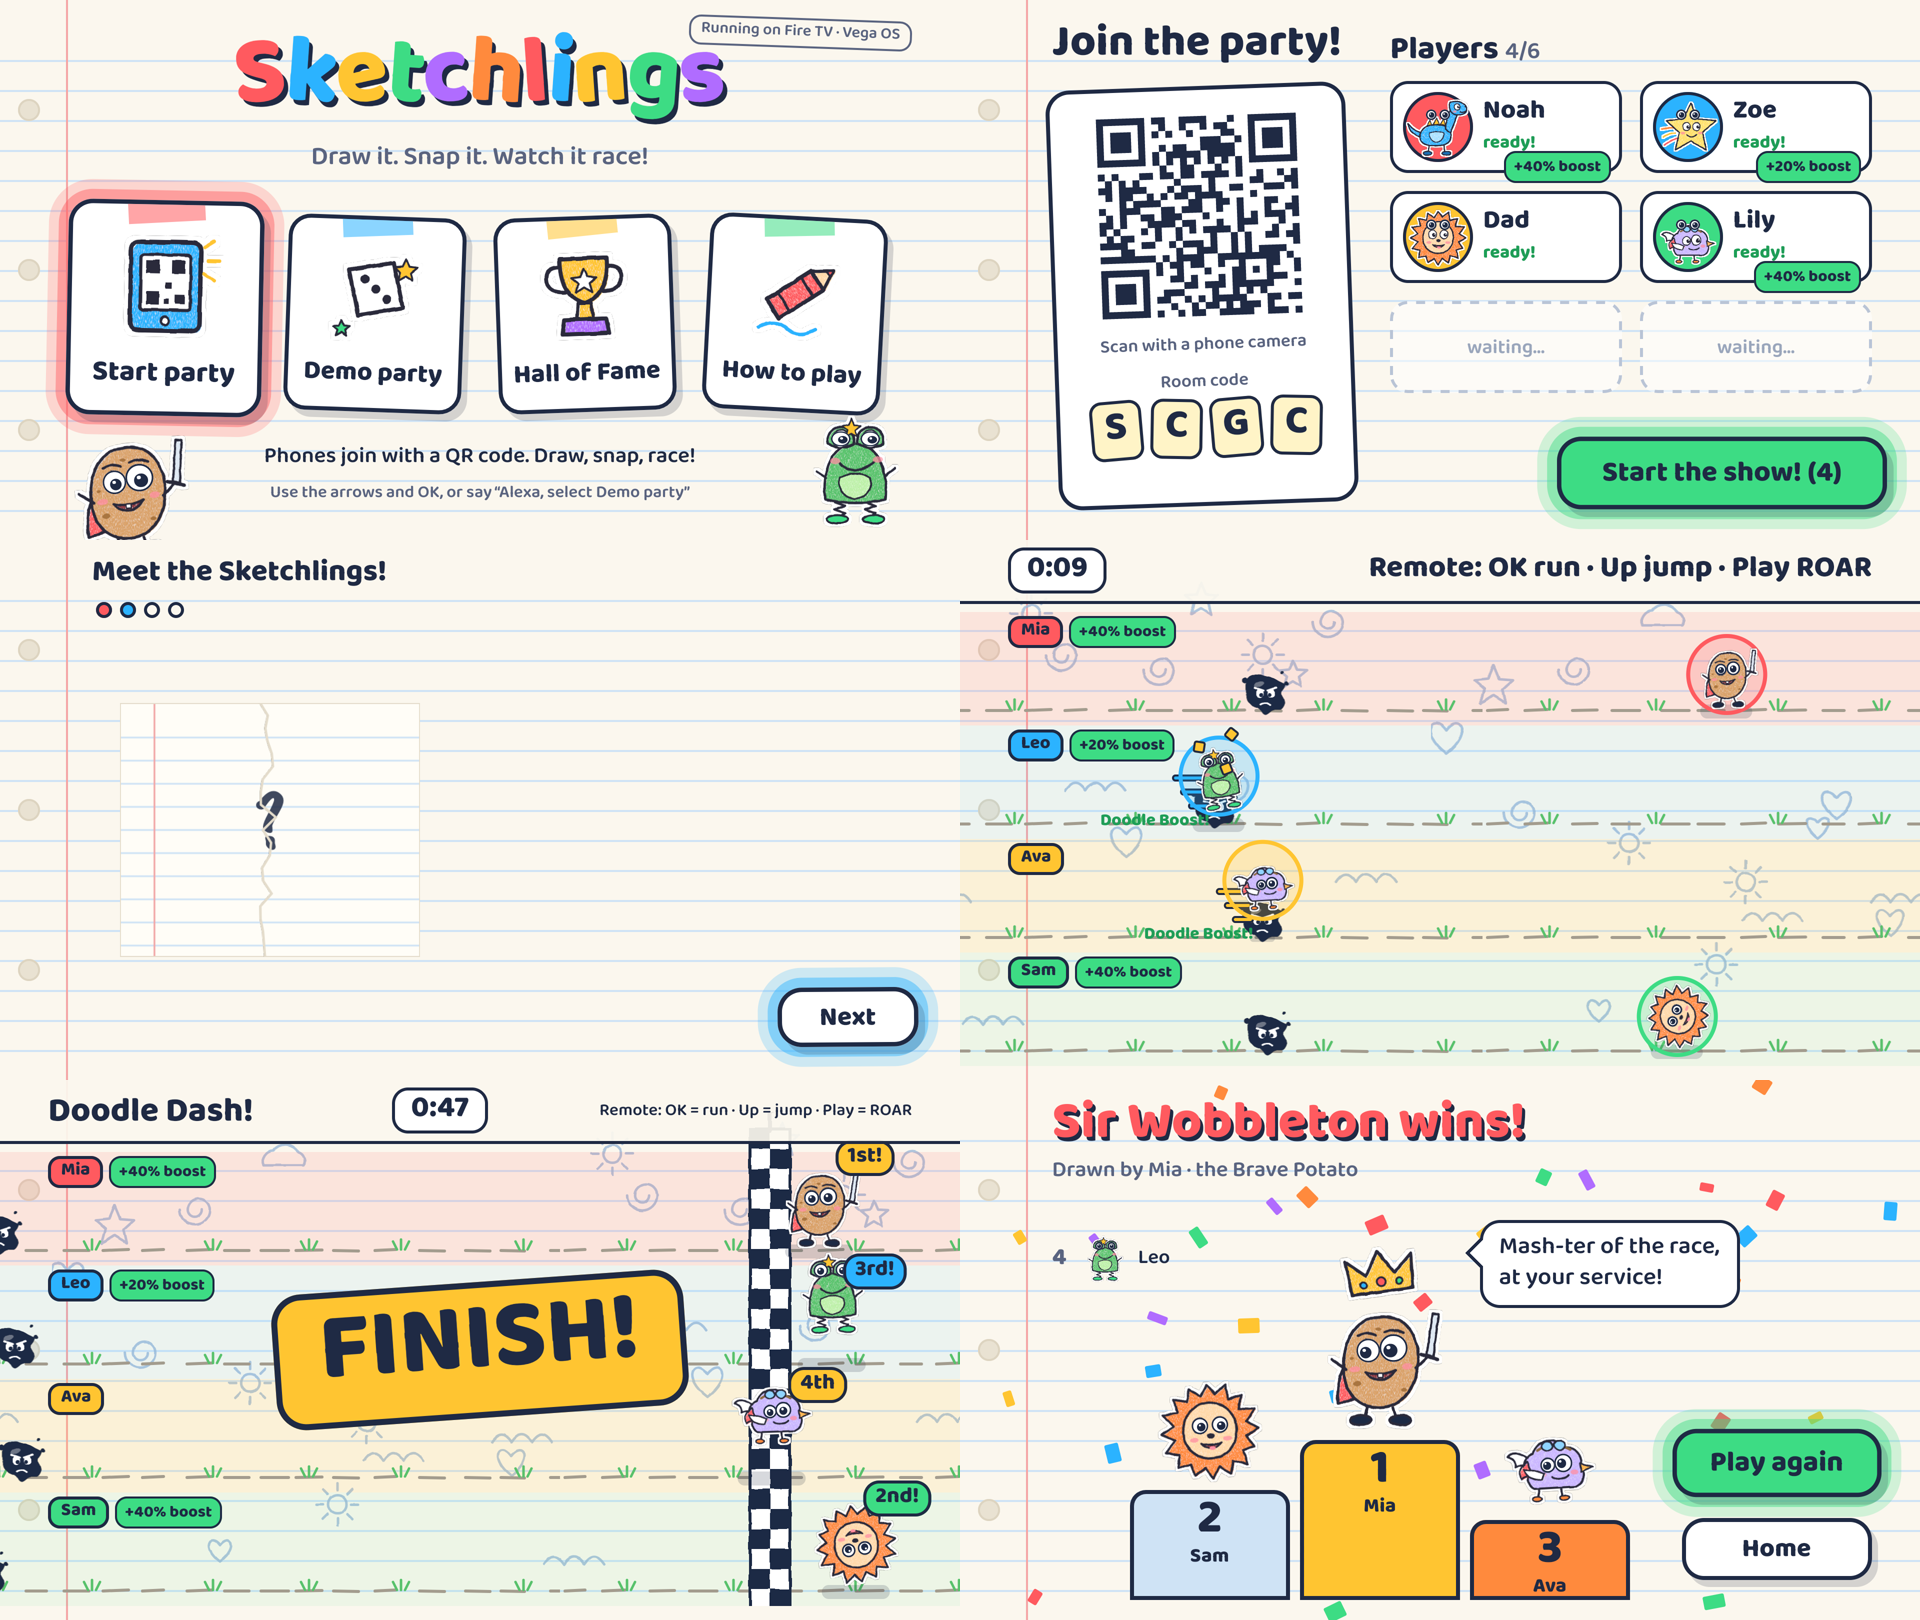
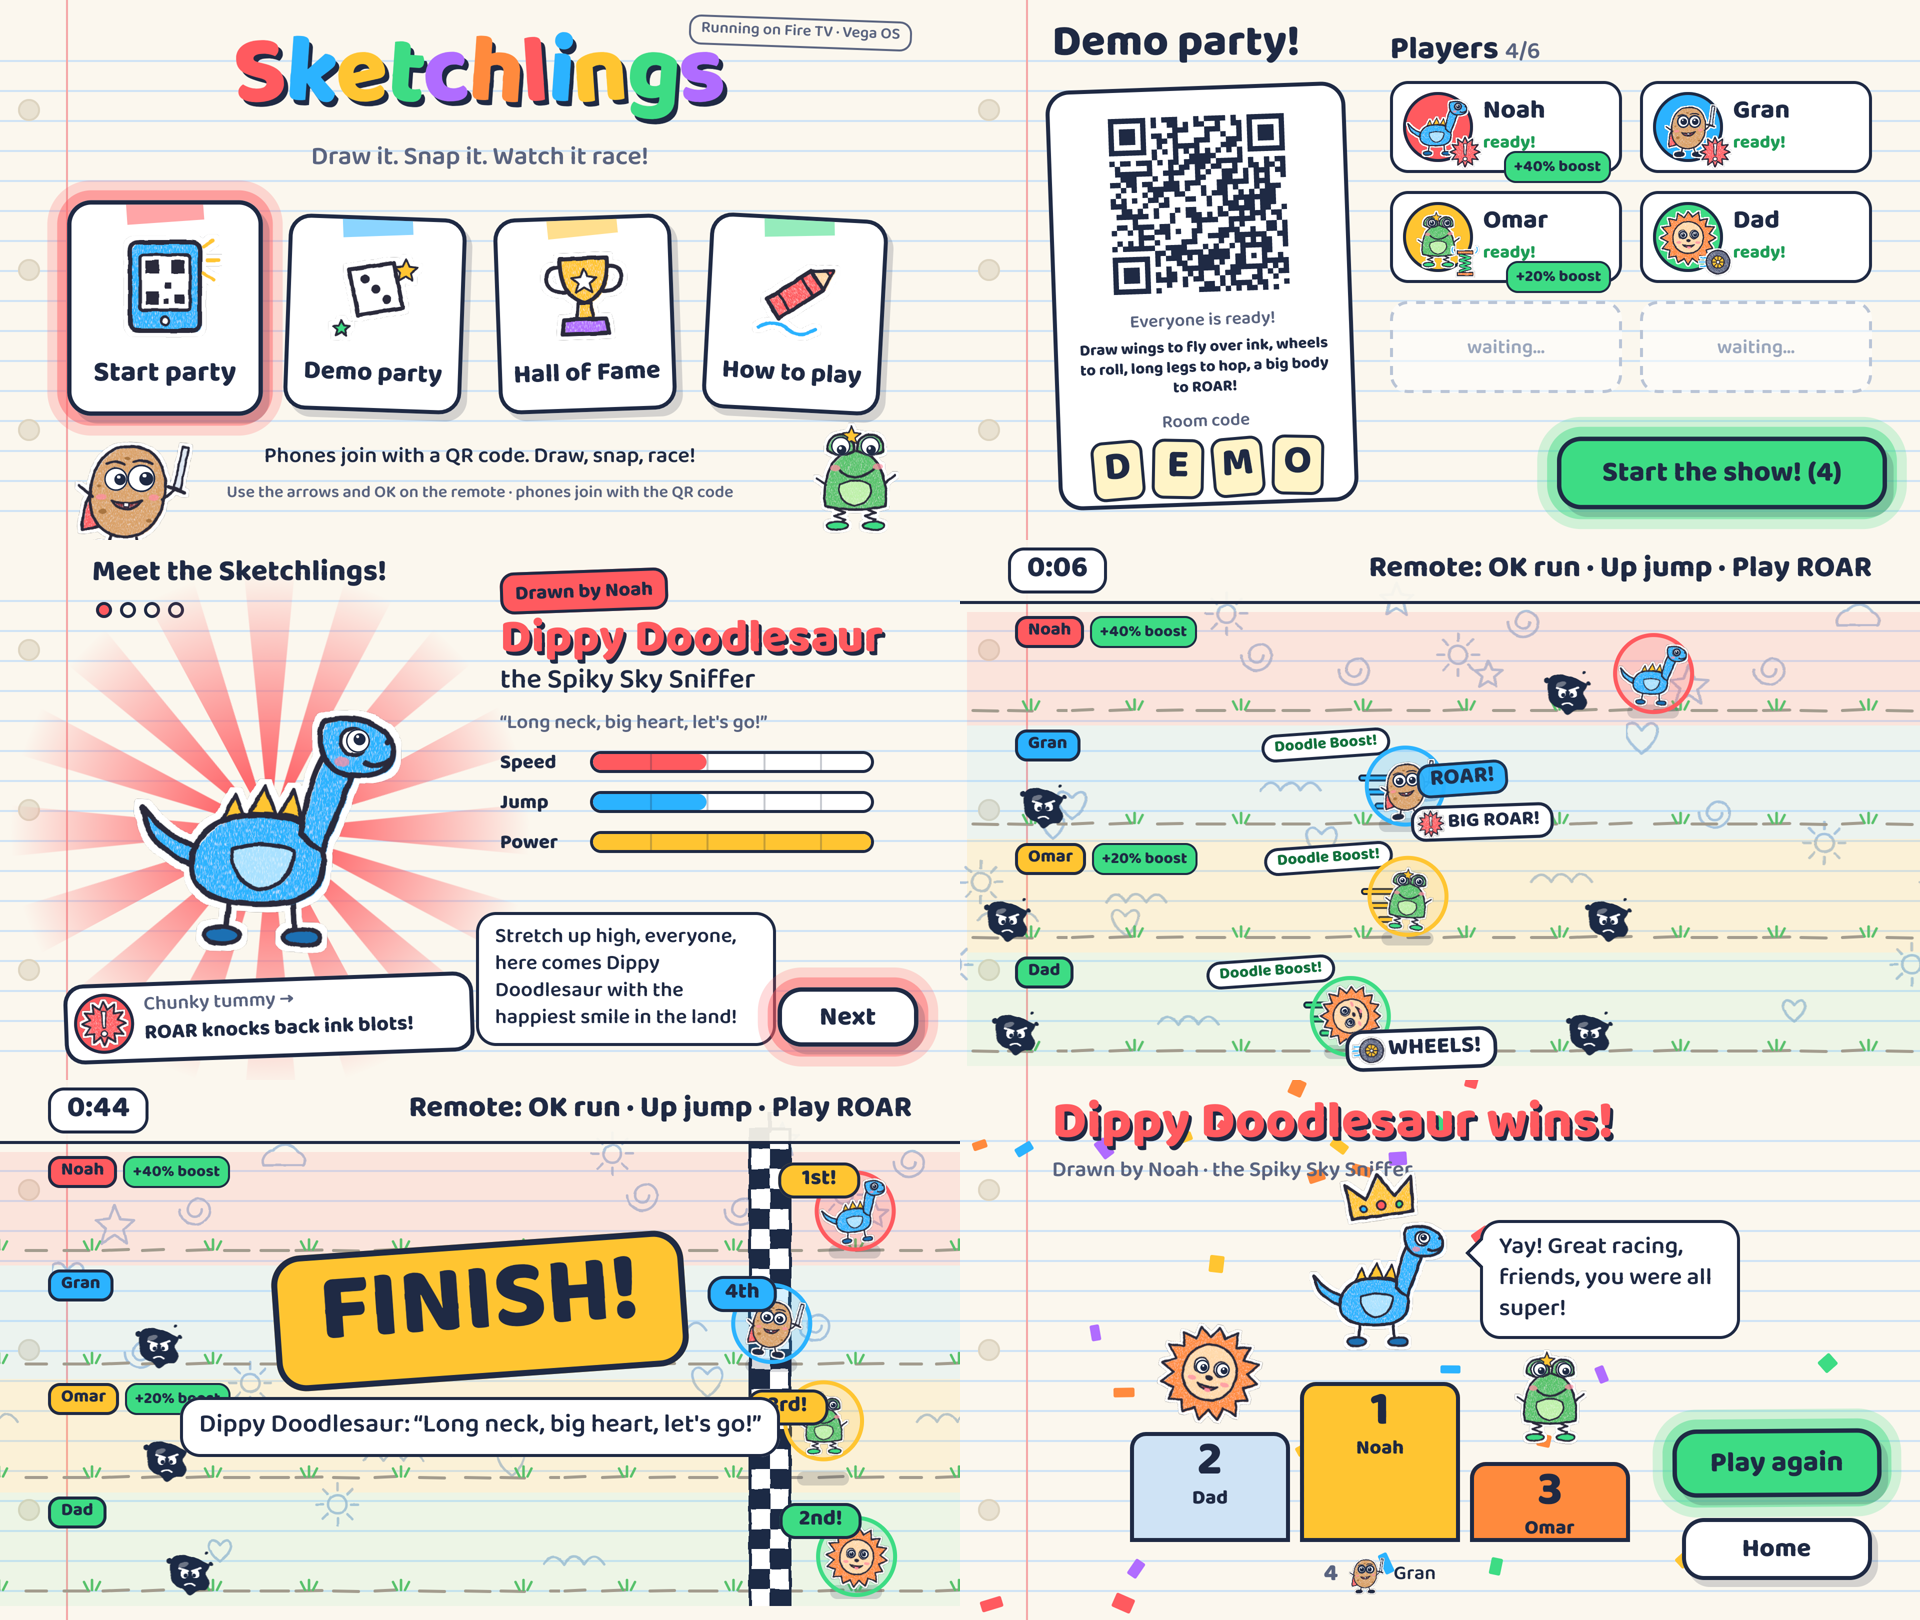
README: recapture docs/preview/tv-overview.png from the current build (Home, Demo lobby, Reveal with ability sticker, race callouts, finish, Results)

diff --git a/README.md b/README.md
@@ -10,7 +10,7 @@ Fire TV track, Amazon "Build, Ship, Shape" hackathon 2026. Built and tested on t
 - Open-source library from this project: **doodle-cutout**, [github.com/Harindulk/doodle-cutout](https://github.com/Harindulk/doodle-cutout) (MIT, 25 tests; also in [`packages/doodle-cutout`](packages/doodle-cutout))
 - [Friction log](FRICTION_LOG.md) · [Product feedback](docs/PRODUCT_FEEDBACK.md) · [Impact and launch memo](docs/IMPACT.md) · [How it came to be](docs/journey/)
 
-![The TV app on the Vega Virtual Device: Home, Lobby with the join QR code, the Reveal, the Doodle Dash race with age boosts, the finish, and the Results podium](docs/preview/tv-overview.png)
+![The TV app on the Vega Virtual Device: Home, Lobby with the join QR code, the Reveal with its ability sticker, the Doodle Dash race with age boosts and ROAR, Doodle Boost and ability callouts, the finish, and the Results podium](docs/preview/tv-overview.png)
 
 <p align="center">
   <img src="phone/docs/screens/02-draw.jpg" width="200" alt="Phone: draw a creature, then snap it">
